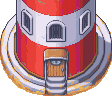
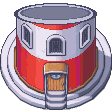
tidy the beach layout

diff --git a/beach.js b/beach.js
@@ -1,4 +1,4 @@
-// scatter behind the street: wet sand and sea rocks from a fixed seed, so the same beach is baked every time
+// back sand is a short list of groups; the sea gets rocks and buoys from a fixed seed, so the same beach is baked every time
 function shore(w) {
   var seed = 5;
   var list = [{ t: 3, x: 0, y: 174, w: w, h: 16 }];
@@ -6,13 +6,38 @@ function shore(w) {
     seed = (seed * 1103515245 + 12345) & 0x7fffffff;
     return (seed >> 8) % n;
   };
-  var land = ['b_sprout', 'b_sprout2', 'b_bed_r', 'b_bed_b', 'b_palm', 'b_dune'];
-  for (var x = 8; x < w; x += 70 + rnd(60)) {
-    var n = land[rnd(land.length)];
-    list.push({ n: n, x: x, y: n === 'b_dune' ? 150 + rnd(16) : n === 'b_palm' ? 120 + rnd(40) : 100 + rnd(60) });
-  }
-  var sea = ['b_rock', 'b_rock2', 'b_rock3', 'b_arch', 'b_buoy_g', 'b_buoy_o', 'b_buoy_r', 'b_gull', 'b_gull2'];
-  for (x = 20; x < w; x += 40 + rnd(60)) {
+  var at = function (n, x, y) {
+    list.push({ n: n, x: x, y: y });
+  };
+  var shade = function (x) {
+    at('b_umb_l', x, 124);
+    at('b_bed_r', x - 36, 110);
+    at('b_bed_b', x + 52, 110);
+  };
+  var grove = function (x) {
+    at('b_palm', x, 122);
+    at('b_sprout2', x - 50, 100);
+    at('b_sprout', x + 60, 98);
+  };
+  var towels = function (x) {
+    at('b_tw_y', x, 104);
+    at('b_tw_g', x + 36, 98);
+  };
+  shade(60);
+  grove(230);
+  towels(372);
+  at('b_gull', 480, 108);
+  shade(570);
+  grove(780);
+  at('b_tw_y', 880, 104);
+  at('b_gull2', 940, 112);
+  grove(1500);
+  shade(1640);
+  at('b_gull', 1722, 100);
+  towels(1750);
+  grove(1880);
+  var sea = ['b_rock', 'b_rock2', 'b_rock3', 'b_arch', 'b_buoy_g', 'b_buoy_o', 'b_buoy_r'];
+  for (var x = 20; x < w; x += 40 + rnd(60)) {
     list.push({ n: sea[rnd(sea.length)], x: x, y: 204 + rnd(250) });
   }
   return list;
@@ -21,19 +46,21 @@ function shore(w) {
 DISTRICTS.push({
   id: 'beach',
   name: 'Beach',
+  lamps: [812, 936, 1584, 1800],
+  hydrants: [24, 505, 1296],
   k: 1.5,
   ground: {
     sheet: 'b_tiles', base: 0, walk: 2, verge: 4,
     band: { tile: 1, from: 190, to: 640, edge: '#c8f2f6' },
     end: ['b_palm', 'b_sprout', 'b_palm', 'b_sprout2']
   },
-  deco: shore(2300),
+  deco: shore(1960),
   sprites: COMMON.concat([
-    'b_anchor', 'b_arch', 'b_ball', 'b_bar1', 'b_bar2', 'b_barr', 'b_bed_b', 'b_bed_r', 'b_bucket',
+    'b_anchor', 'b_arch', 'b_bar1', 'b_bar2', 'b_barr', 'b_bed_b', 'b_bed_r', 'b_bucket',
     'b_buoy_g', 'b_buoy_o', 'b_buoy_r', 'b_chair', 'b_court', 'b_cs1', 'b_cs1f', 'b_cs2', 'b_cs3', 'b_ct1',
-    'b_ct2', 'b_deck1', 'b_deck2', 'b_dj', 'b_dune', 'b_gull', 'b_gull2', 'b_hole', 'b_lguard', 'b_lh0',
+    'b_ct2', 'b_deck1', 'b_deck2', 'b_dj', 'b_gull', 'b_gull2', 'b_lguard', 'b_lh0',
     'b_lh1', 'b_lh3', 'b_lh_lamp', 'b_lh_open', 'b_logo', 'b_menu', 'b_net', 'b_palm', 'b_pole', 'b_price',
-    'b_rig1', 'b_rig2', 'b_rock', 'b_rock2', 'b_rock3', 'b_score', 'b_scount', 'b_shell', 'b_ship', 'b_sign',
+    'b_rig1', 'b_rig2', 'b_rock', 'b_rock2', 'b_rock3', 'b_score', 'b_shell', 'b_ship', 'b_sign',
     'b_spk', 'b_sprout', 'b_sprout2', 'b_stairs', 'b_star', 'b_star2', 'b_stool', 'b_table', 'b_table2',
     'b_table3', 'b_tiles', 'b_toy_ball', 'b_toy_ring', 'b_tw_b', 'b_tw_g', 'b_tw_m', 'b_tw_y', 'b_umb_b',
     'b_umb_g', 'b_umb_l', 'b_umb_y', 'b_umc_b', 'b_umc_g', 'b_umc_l', 'b_umc_y', 'dpad', 'flagpole',
@@ -51,19 +78,19 @@ DISTRICTS.push({
         { add: 'a menu board', say: 'Menu board!' },
         { add: 'a palm tree', say: 'Palm tree!' },
         { add: 'a second counter', say: 'Second counter!' },
-        { add: 'an orange buoy', say: 'Buoy!' },
+        { add: 'a barrel table', say: 'Barrel table!' },
         { add: 'a direction sign', say: 'Signpost!' }
       ],
       parts: [
         { n: 'b_palm', at: 4, x: 0, y: 4 },
+        { n: 'b_pole', at: 7, x: 100, y: 40 },
         { n: 'b_bar1', at: 0, to: 0, x: 40, y: 0 },
         { n: 'b_bar2', at: 1, x: 40, y: 0 },
-        { n: 'b_stool', at: 2, x: 48, y: -14 },
-        { n: 'b_stool', at: 2, x: 72, y: -14 },
-        { n: 'b_menu', at: 3, x: 2, y: -8 },
+        { n: 'b_stool', at: 2, x: 48, y: -3 },
+        { n: 'b_stool', at: 2, x: 72, y: -3 },
+        { n: 'b_menu', at: 3, x: 2, y: -2 },
         { n: 'b_bar2', at: 5, x: 88, y: 0 },
-        { n: 'b_buoy_o', at: 6, x: 22, y: -14 },
-        { n: 'b_pole', at: 7, x: 104, y: -14 }
+        { n: 'b_table2', at: 6, x: 116, y: -2 }
       ]
     },
     {
@@ -87,15 +114,15 @@ DISTRICTS.push({
         { n: 'b_tw_y', at: 4, x: 96, y: 10 },
         { n: 'b_tw_g', at: 6, x: 148, y: -4 },
         { n: 'b_umb_y', at: 3, x: 66, y: 24 },
-        { n: 'b_price', at: 0, x: 4, y: -4 },
+        { n: 'b_price', at: 0, x: 4, y: -2 },
         { n: 'b_umc_b', at: 0, to: 0, x: 24, y: 0 },
         { n: 'b_umb_b', at: 1, x: 8, y: 0 },
         { n: 'b_umb_g', at: 5, x: 120, y: 0 },
-        { n: 'b_umc_l', at: 7, x: 184, y: 0 },
+        { n: 'b_umc_l', at: 7, x: 172, y: 0 },
         { n: 'b_umc_y', at: 7, x: 200, y: 0 },
         { n: 'b_umc_g', at: 7, x: 216, y: 0 },
-        { n: 'b_toy_ball', at: 8, x: 80, y: -16 },
-        { n: 'b_toy_ring', at: 8, x: 104, y: -14 }
+        { n: 'b_toy_ball', at: 8, x: 80, y: -2 },
+        { n: 'b_toy_ring', at: 8, x: 104, y: -5 }
       ]
     },
     {
@@ -113,19 +140,19 @@ DISTRICTS.push({
         { add: 'shells, starfish and a beach plant', say: 'Shells!' }
       ],
       parts: [
-        { n: 'b_ct1', at: 6, x: 44, y: 22 },
-        { n: 'b_ct2', at: 6, x: 90, y: 24 },
-        { n: 'b_hole', at: 0, to: 1, x: 58, y: 0 },
-        { n: 'b_price', at: 0, x: 8, y: -6 },
+        { n: 'b_ct1', at: 0, to: 1, x: 62, y: 0 },
+        { n: 'b_ct1', at: 6, x: 70, y: 34 },
+        { n: 'b_ct2', at: 6, x: 18, y: 30 },
+        { n: 'b_price', at: 0, to: 3, x: 8, y: -2 },
         { n: 'b_cs1', at: 2, to: 2, x: 58, y: 0 },
         { n: 'b_cs1f', at: 3, x: 58, y: 0 },
         { n: 'b_cs2', at: 4, x: 4, y: -2 },
         { n: 'b_cs3', at: 5, x: 96, y: -2 },
-        { n: 'b_bucket', at: 1, x: 52, y: -12 },
-        { n: 'b_sprout', at: 7, x: 100, y: -22 },
-        { n: 'b_star', at: 7, x: 30, y: -12 },
-        { n: 'b_shell', at: 7, x: 128, y: -14 },
-        { n: 'b_star2', at: 7, x: 82, y: -14 }
+        { n: 'b_bucket', at: 1, x: 44, y: -1 },
+        { n: 'b_sprout', at: 7, x: 100, y: 0 },
+        { n: 'b_star', at: 7, x: 30, y: -5 },
+        { n: 'b_shell', at: 7, x: 128, y: -4 },
+        { n: 'b_star2', at: 7, x: 82, y: -5 }
       ]
     },
     {
@@ -143,21 +170,21 @@ DISTRICTS.push({
         { add: 'a palm and a menu board', say: 'Palm!' }
       ],
       parts: [
-        { n: 'b_palm', at: 7, x: 168, y: 14 },
-        { n: 'b_scount', at: 0, to: 0, x: 40, y: 0 },
+        { n: 'b_palm', at: 7, x: 150, y: 44 },
+        { n: 'b_bar1', at: 0, to: 0, x: 40, y: 0 },
         { n: 'b_ship', at: 1, x: 8, y: 0 },
-        { n: 'b_anchor', at: 5, x: 124, y: 0 },
+        { n: 'b_anchor', at: 5, x: 88, y: 4 },
         { n: 'b_table', at: 2, to: 3, x: 148, y: 8 },
-        { n: 'b_table', at: 2, to: 3, x: 184, y: 0 },
+        { n: 'b_table', at: 2, to: 3, x: 172, y: 0 },
         { n: 'b_table', at: 2, to: 3, x: 212, y: 10 },
         { n: 'b_table2', at: 4, x: 148, y: 8 },
-        { n: 'b_table3', at: 4, x: 184, y: 0 },
+        { n: 'b_table3', at: 4, x: 172, y: 0 },
         { n: 'b_table2', at: 4, x: 212, y: 10 },
-        { n: 'b_chair', at: 3, x: 134, y: -12 },
-        { n: 'b_chair', at: 3, x: 168, y: -8 },
+        { n: 'b_chair', at: 3, x: 134, y: -4 },
+        { n: 'b_chair', at: 3, x: 168, y: -4 },
         { n: 'b_chair', at: 3, x: 198, y: 2 },
-        { n: 'b_logo', at: 6, x: 36, y: 68 },
-        { n: 'b_menu', at: 7, x: 112, y: -14 }
+        { n: 'b_logo', at: 6, x: 36, y: 56 },
+        { n: 'b_menu', at: 7, x: 112, y: -2 }
       ]
     },
     {
@@ -167,24 +194,24 @@ DISTRICTS.push({
       up: 66000, grow: 1.8,
       rungs: [
         { add: 'a net', say: 'Net!' },
-        { add: 'a ball', say: 'Ball!' },
-        { add: 'a score board', say: 'Score board!' },
+        { add: 'a beach ball', say: 'Ball!' },
+        { add: 'a rules board', say: 'Rules board!' },
         { add: 'towels for the players', say: 'Towels!' },
         { add: 'an umbrella for the crowd', say: 'Umbrella!' },
         { add: 'a lifeguard chair', say: 'Lifeguard!' },
         { add: 'palms at both ends', say: 'Palms!' }
       ],
       parts: [
-        { n: 'b_palm', at: 7, x: 0, y: 40 },
-        { n: 'b_palm', at: 7, x: 240, y: 34 },
-        { n: 'b_court', at: 0, x: 64, y: -8 },
-        { n: 'b_net', at: 1, x: 64, y: 28 },
-        { n: 'b_ball', at: 2, x: 128, y: 20 },
-        { n: 'b_score', at: 3, x: 232, y: -4 },
-        { n: 'b_tw_b', at: 4, x: 236, y: -14 },
-        { n: 'b_tw_m', at: 4, x: 268, y: -10 },
-        { n: 'b_umb_l', at: 5, x: 254, y: 0 },
-        { n: 'b_lguard', at: 6, x: 8, y: -6 }
+        { n: 'b_palm', at: 7, x: 0, y: 56 },
+        { n: 'b_palm', at: 7, x: 240, y: 82 },
+        { n: 'b_court', at: 0, x: 64, y: 4 },
+        { n: 'b_net', at: 1, x: 64, y: 40 },
+        { n: 'b_toy_ball', at: 2, x: 116, y: 30 },
+        { n: 'b_score', at: 3, x: 224, y: -2 },
+        { n: 'b_umb_l', at: 5, x: 254, y: 16 },
+        { n: 'b_tw_b', at: 4, x: 242, y: 0 },
+        { n: 'b_tw_m', at: 4, x: 270, y: 2 },
+        { n: 'b_lguard', at: 6, x: 8, y: 0 }
       ]
     },
     {
@@ -193,33 +220,32 @@ DISTRICTS.push({
       pay: 2400, gain: 0.4, hold: 8,
       up: 500000, grow: 1.8,
       unlocks: ['drones', 'heli'],
+      pad: { n: 'dpad', x: 172, y: 0 },
       rungs: [
         { add: 'stairs', say: 'Stairs!' },
         { add: 'loudspeakers', say: 'Loudspeakers!' },
         { add: 'a DJ set', say: 'DJ set!' },
         { add: 'crowd barriers', say: 'Barriers!' },
         { add: 'a lighting rig', say: 'Lights!' },
-        { add: 'a drone landing pad', say: 'Landing pad!' },
+        { add: 'a helicopter pad', say: 'Pad!' },
         { add: 'a bigger stage', say: 'Bigger stage!' },
-        { add: 'a taller rig', say: 'Taller rig!' }
+        { add: 'a wider rig', say: 'Wider rig!' }
       ],
       parts: [
-        { n: 'dpad', at: 6, x: 172, y: 0 },
         { n: 'b_deck1', at: 0, to: 6, x: 0, y: 0 },
         { n: 'b_deck2', at: 7, x: 0, y: 0 },
+        { n: 'dpad', at: 6, x: 172, y: 0 },
         { n: 'b_rig1', at: 5, to: 6, x: 8, y: 70 },
         { n: 'b_rig1', at: 7, to: 7, x: 40, y: 70 },
         { n: 'b_rig2', at: 8, x: 8, y: 70 },
-        { n: 'b_stairs', at: 1, x: 48, y: -10 },
+        { n: 'b_stairs', at: 1, x: 48, y: -2 },
         { n: 'b_spk', at: 2, x: 2, y: 40 },
         { n: 'b_spk', at: 2, x: 78, y: 40 },
         { n: 'b_dj', at: 3, x: 40, y: 8 },
-        { n: 'b_barr', at: 4, x: 0, y: -12 },
-        { n: 'b_barr', at: 4, x: 32, y: -12 },
-        { n: 'b_barr', at: 4, x: 64, y: -12 },
-        { n: 'b_barr', at: 4, x: 96, y: -12 },
-        { n: 'b_barr', at: 7, x: 128, y: -12 },
-        { n: 'b_barr', at: 7, x: 160, y: -12 },
+        { n: 'b_barr', at: 4, x: 16, y: -2 },
+        { n: 'b_barr', at: 4, x: 80, y: -2 },
+        { n: 'b_barr', at: 7, x: 112, y: -2 },
+        { n: 'b_barr', at: 7, x: 144, y: -2 },
         { n: 'b_spk', at: 7, x: 142, y: 40 }
       ]
     },
@@ -231,7 +257,7 @@ DISTRICTS.push({
       capstone: true,
       rungs: [
         { add: 'an open door', say: 'Door!' },
-        { add: 'the tower', say: 'Tower!' },
+        { add: 'a glass dome', say: 'Glass dome!' },
         { add: 'a lamp on the top deck', say: 'Lamp!' },
         { add: 'a red roof and glass', say: 'Red roof!' },
         { add: 'an entrance sign', say: 'Sign!' },
@@ -244,10 +270,10 @@ DISTRICTS.push({
         { n: 'b_lh_lamp', at: 3, to: 3, x: 88, y: 186 },
         { n: 'b_lh3', at: 4, x: 56, y: 0 },
         { n: 'b_lh_open', at: 1, x: 88, y: 14 },
-        { n: 'b_sign', at: 5, x: 0, y: -10 },
-        { n: 'flagpole', at: 6, x: 44, y: -6 },
-        { n: 'flagpole', at: 6, x: 152, y: -6 },
-        { n: 'helipad', at: 7, x: 184, y: 0 }
+        { n: 'b_sign', at: 5, x: 2, y: -2 },
+        { n: 'flagpole', at: 6, x: 66, y: 0 },
+        { n: 'flagpole', at: 6, x: 140, y: 0 },
+        { n: 'helipad', at: 7, x: 172, y: 0 }
       ]
     }
   ]
